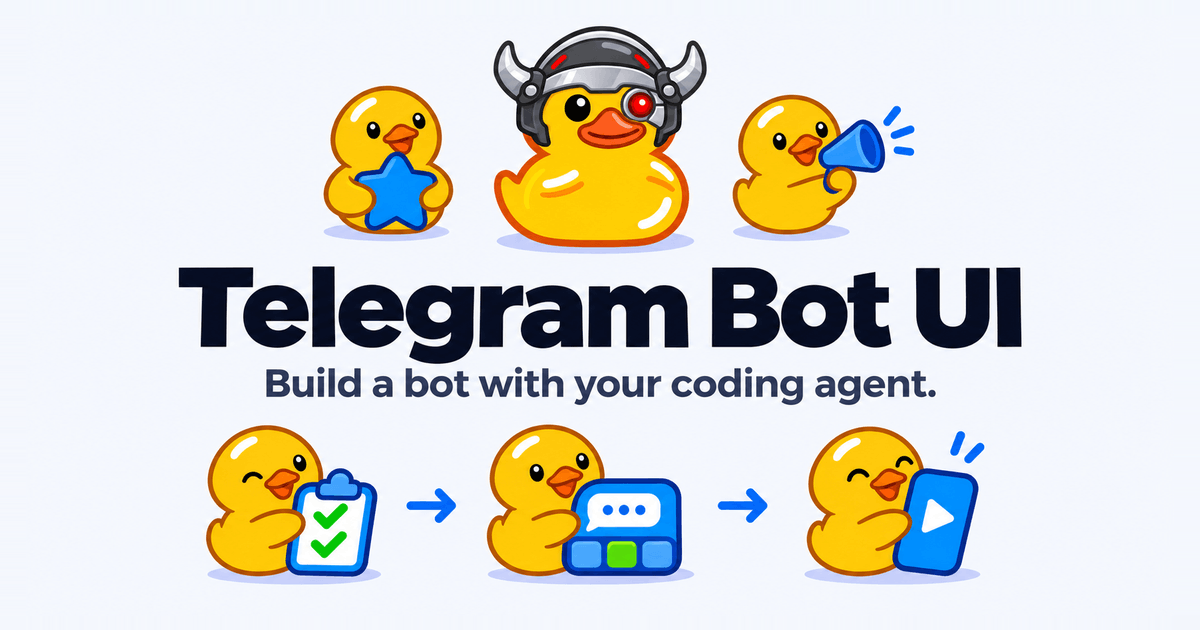
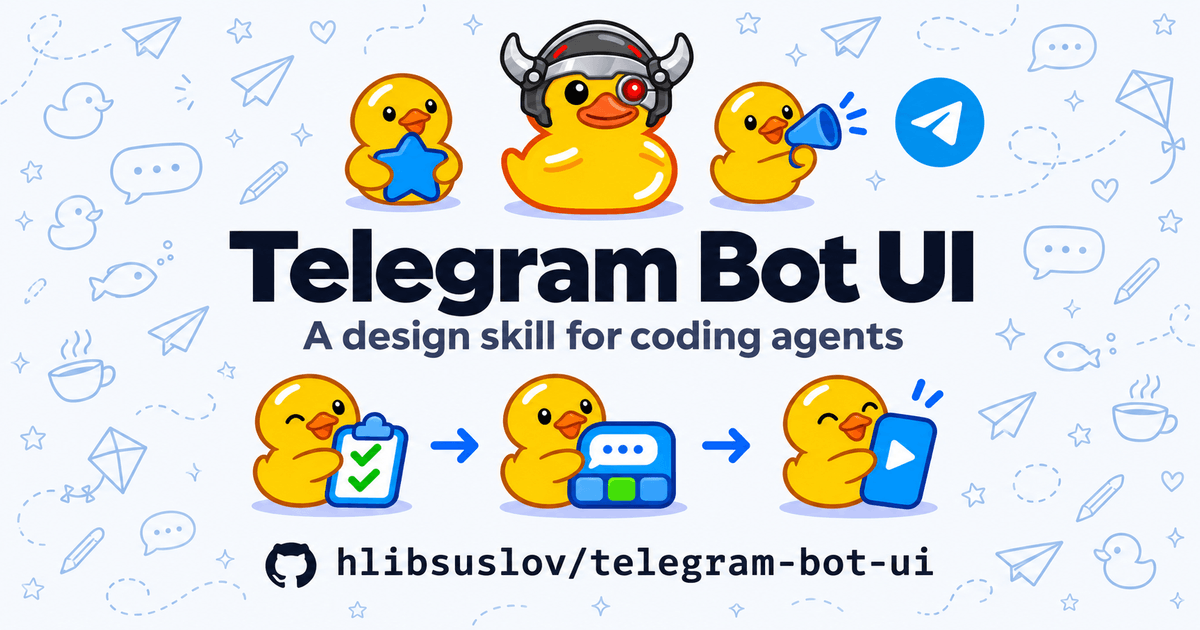
Brand the design skill and Emoji Library link previews

diff --git a/src/proxy.ts b/src/proxy.ts
@@ -2,10 +2,13 @@ import { type NextRequest, NextResponse } from "next/server";
 import { EMOJI_API_DOCS_PATH, EMOJI_GUIDE_PATH, EMOJI_SHARE_IMAGE_PATH, emojiPackPath } from "@/lib/emoji-links";
 import { listedPackName } from "@/lib/emoji-pack-list";
 
-const libraryResources = new Set([EMOJI_API_DOCS_PATH, EMOJI_GUIDE_PATH, EMOJI_SHARE_IMAGE_PATH]);
+const libraryResources = new Set([EMOJI_API_DOCS_PATH, EMOJI_GUIDE_PATH]);
 
 export function proxy(request: NextRequest) {
   const path = request.nextUrl.pathname;
+  if (path === "/emoji/share-image") {
+    return NextResponse.rewrite(new URL(EMOJI_SHARE_IMAGE_PATH, request.url));
+  }
   if (libraryResources.has(path)) return NextResponse.next();
 
   let name: string | undefined;

diff --git a/src/lib/emoji-metadata.ts b/src/lib/emoji-metadata.ts
@@ -4,9 +4,10 @@ import { siteUrl } from "./site-url";
 
 const shareImage = {
   url: EMOJI_SHARE_IMAGE_PATH,
+  type: "image/png",
   width: 1200,
   height: 630,
-  alt: "Telegram Emoji Library — Find a pack and copy a custom emoji ID",
+  alt: "Telegram Emoji Library. Find a pack. Copy an emoji ID. A yellow duck with a magnifying glass examines six emoji beside a copy icon.",
 };
 
 export function emojiMetadata(path: string, title: string, description: string, type: "website" | "article" = "website"): Metadata {

diff --git a/src/lib/emoji-links.ts b/src/lib/emoji-links.ts
@@ -1,7 +1,7 @@
 export const EMOJI_LIBRARY_PATH = "/emoji";
 export const EMOJI_GUIDE_PATH = "/emoji/custom-emoji-guide";
 export const EMOJI_API_DOCS_PATH = "/emoji/api-docs";
-export const EMOJI_SHARE_IMAGE_PATH = "/emoji/share-image";
+export const EMOJI_SHARE_IMAGE_PATH = "/share/telegram-emoji-library.png";
 
 export function emojiPackPath(name: string, id?: string): string {
   return `${EMOJI_LIBRARY_PATH}/${name}${id ? `#e=${id}` : ""}`;
